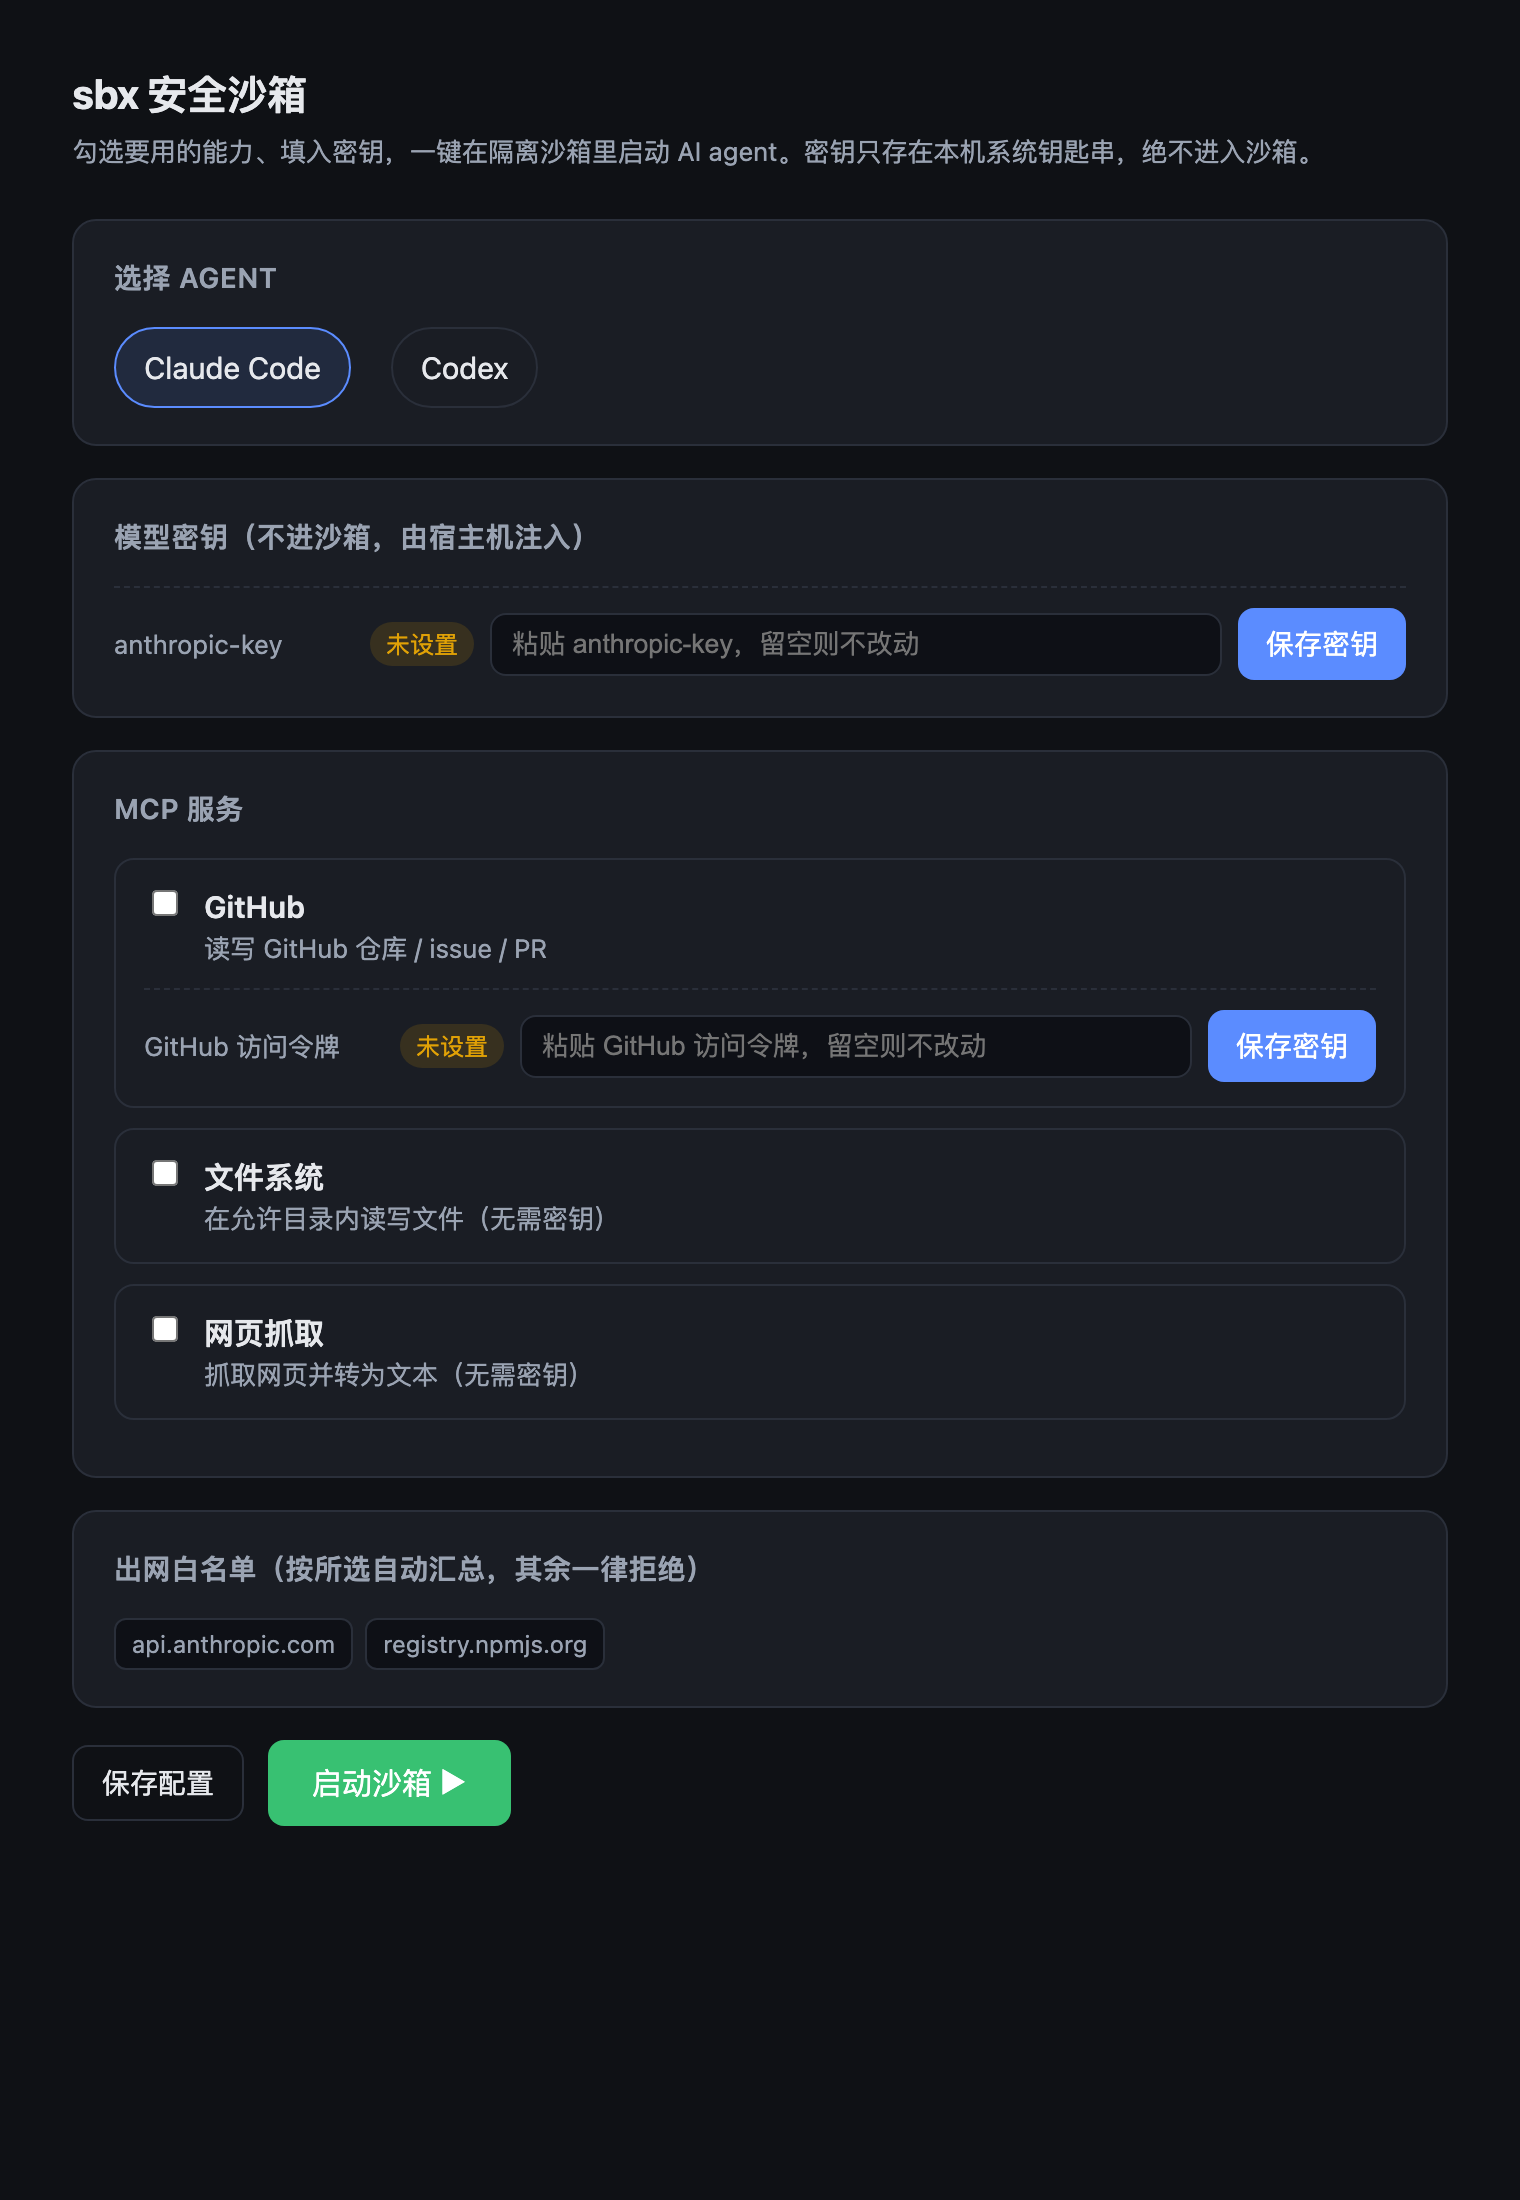
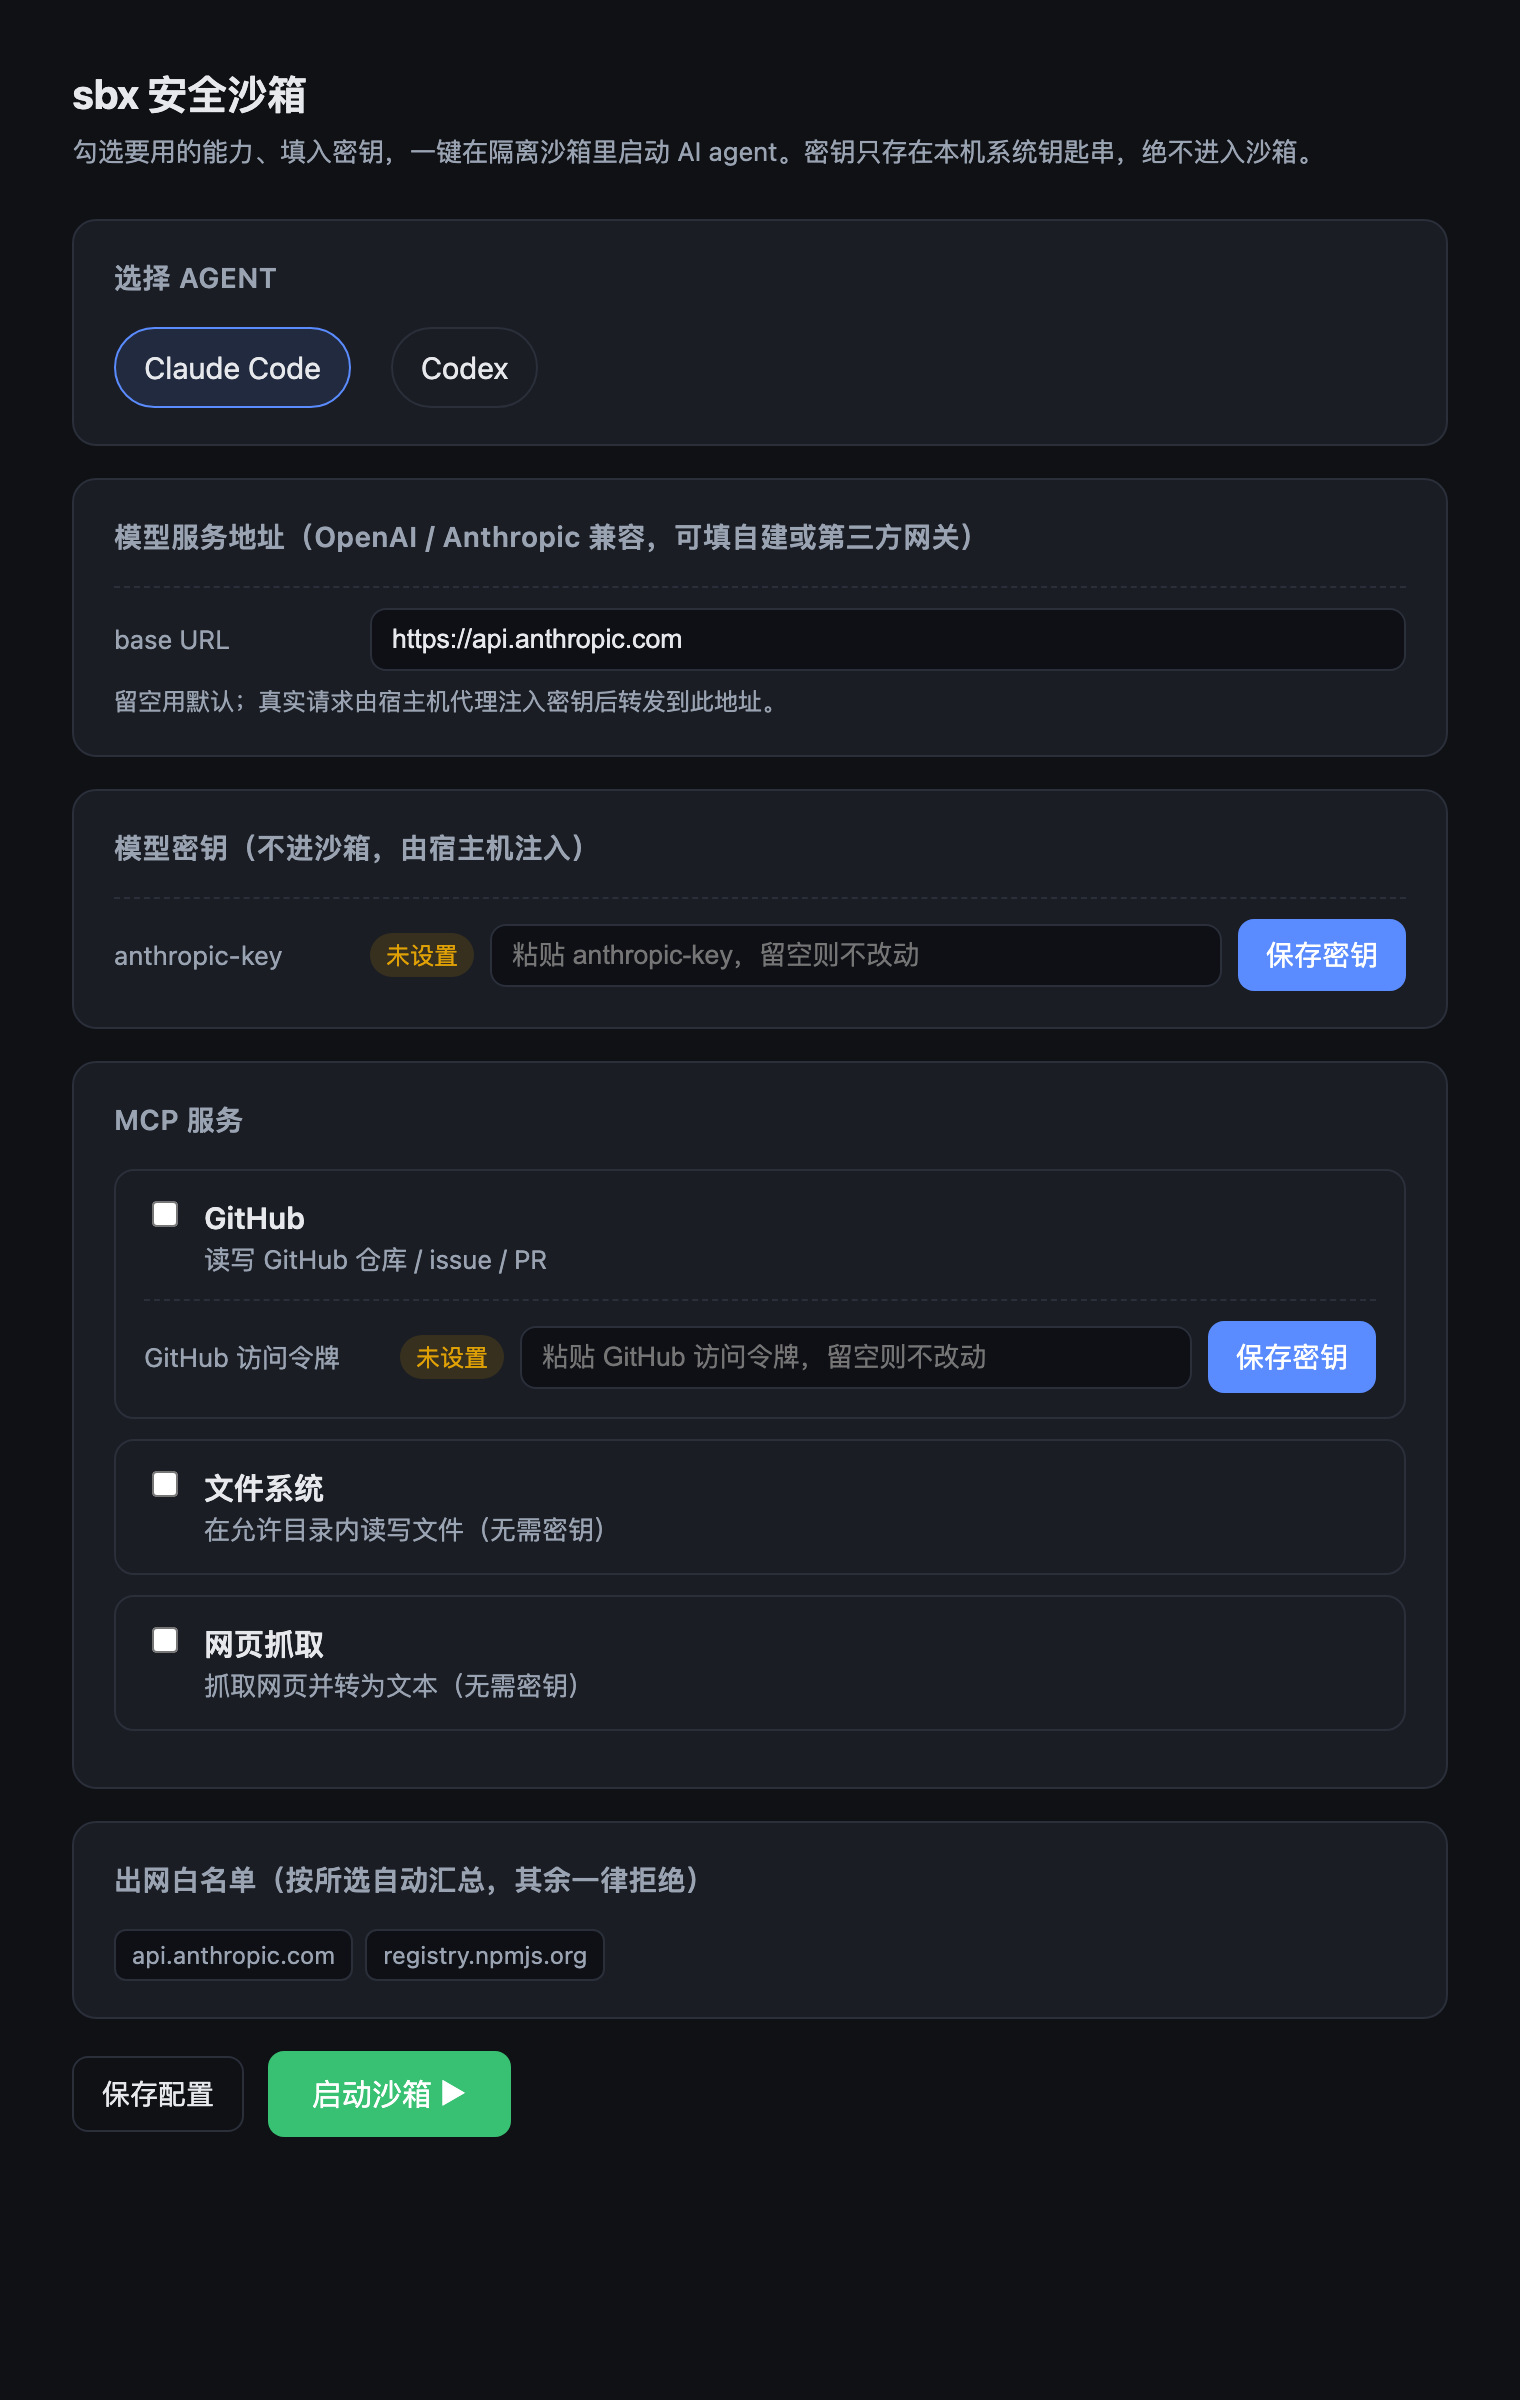
feat: UI 支持自定义模型服务地址(base URL)
- catalog: AgentPreset 以 BaseURL 取代写死的 Target/Allowlist；BuildConfig 由 baseURL 推导
  代理 Target(取源, 忽略 /v1) 与出网白名单域名，支持自建/第三方 OpenAI 兼容网关
- webui: /api/state 下发各 agent 当前 base URL；/api/config 接收 baseUrl
- 前端新增「模型服务地址」输入框，白名单随之实时更新
- 新增自定义 base URL 单测；更新界面截图

diff --git a/internal/webui/index.html b/internal/webui/index.html
@@ -53,6 +53,15 @@
   </div>
 
   <div class="card">
+    <h2>模型服务地址（OpenAI / Anthropic 兼容，可填自建或第三方网关）</h2>
+    <div class="secret">
+      <span class="lbl">base URL</span>
+      <input type="text" id="baseUrl" placeholder="如 https://llmapi.qiniu.io/v1">
+    </div>
+    <div class="desc" style="margin-top:6px;color:var(--mut);font-size:12px">留空用默认；真实请求由宿主机代理注入密钥后转发到此地址。</div>
+  </div>
+
+  <div class="card">
     <h2>模型密钥（不进沙箱，由宿主机注入）</h2>
     <div id="agentSecret"></div>
   </div>
@@ -115,10 +124,12 @@ function renderAgents(){
   const box = $('#agents'); box.innerHTML='';
   S.agents.forEach(a => {
     const node = el('span',{class:'agent'+(a.key===agent?' sel':'')}, a.display);
-    node.onclick = () => { agent=a.key; renderAgents(); renderAgentSecret(); renderAllow(); };
+    node.onclick = () => { agent=a.key; $('#baseUrl').value=S.baseURL[agent]||''; renderAgents(); renderAgentSecret(); renderAllow(); };
     box.append(node);
   });
 }
+
+function hostOf(u){ try{ return new URL(u).hostname; }catch(e){ return ''; } }
 
 function renderMCPs(){
   const box = $('#mcps'); box.innerHTML='';
@@ -137,13 +148,14 @@ function renderMCPs(){
 function renderAllow(){
   const box = $('#allow'); box.innerHTML='';
   const set = new Set(['registry.npmjs.org']);
-  const a = S.agents.find(x=>x.key===agent); (a&&a.allowlist||[]).forEach(d=>set.add(d));
+  const h = hostOf($('#baseUrl').value); if(h) set.add(h);
   S.mcpPresets.filter(p=>enabled.has(p.key)).forEach(p=>(p.allowlist||[]).forEach(d=>set.add(d)));
   [...set].sort().forEach(d=>box.append(el('span',{class:'chip'},d)));
 }
 
 async function save(){
-  const r = await fetch('/api/config',{method:'POST',headers:{'Content-Type':'application/json'},body:JSON.stringify({agent,enabled:[...enabled]})});
+  const baseUrl = $('#baseUrl').value.trim();
+  const r = await fetch('/api/config',{method:'POST',headers:{'Content-Type':'application/json'},body:JSON.stringify({agent,enabled:[...enabled],baseUrl})});
   if(r.ok){ status('已生成 sandbox.yaml（不含任何密钥）','var(--ok)'); return true; }
   status('保存配置失败','var(--danger)'); return false;
 }
@@ -161,6 +173,8 @@ async function init(){
   S = await (await fetch('/api/state')).json();
   agent = S.selected.agent || S.agents[0].key;
   (S.selected.enabled||[]).forEach(k=>enabled.add(k));
+  $('#baseUrl').value = S.baseURL[agent] || '';
+  $('#baseUrl').oninput = renderAllow;
   renderAgents(); renderAgentSecret(); renderMCPs(); renderAllow();
   $('#save').onclick = save;
   $('#launch').onclick = launch;

diff --git a/internal/catalog/build.go b/internal/catalog/build.go
@@ -1,7 +1,9 @@
 package catalog
 
 import (
+	"net/url"
 	"sort"
+	"strings"
 
 	"sbx/internal/config"
 )
@@ -9,13 +11,14 @@ import (
 // npm registry 是容器内 npx 拉取 MCP server 包所需，始终加入白名单。
 const npmRegistry = "registry.npmjs.org"
 
-// BuildConfig 由「所选 agent + 启用的 MCP 预设」生成一份 config.Config。
-//   - allowlist = 各启用 MCP 的域名 ∪ 该 agent 代理域名 ∪ npm registry（去重排序）
+// BuildConfig 由「所选 agent + 启用的 MCP 预设 + 模型服务地址」生成一份 config.Config。
+//   - allowlist = 各启用 MCP 的域名 ∪ 模型服务域名 ∪ npm registry（去重排序）
 //   - mcpServers = 各启用预设 → {Image, Command, Secrets(env→keyName)}
-//   - llmProxies = 该 agent 的模型代理（claude=anthropic / codex=openai）
+//   - llmProxies = 该 agent 的模型代理（Target 取自 baseURL 的源，为空则用预设默认）
 //
+// baseURL 允许用户指向自建/第三方 OpenAI 兼容网关（如 https://llmapi.qiniu.io/v1）。
 // 生成结果不含任何密钥值，仅密钥名。
-func BuildConfig(agentKey string, enabledMCP []string) *config.Config {
+func BuildConfig(agentKey string, enabledMCP []string, baseURL string) *config.Config {
 	cfg := &config.Config{
 		MCPServers: map[string]config.MCPServer{},
 		LLMProxies: map[string]config.LLMProxy{},
@@ -42,9 +45,16 @@ func BuildConfig(agentKey string, enabledMCP []string) *config.Config {
 	}
 
 	if a, ok := AgentByKey(agentKey); ok {
-		cfg.LLMProxies[a.ProxyName] = a.Proxy
-		for _, d := range a.Allowlist {
-			domains[d] = struct{}{}
+		base := strings.TrimSpace(baseURL)
+		if base == "" {
+			base = a.BaseURL
+		}
+		origin, host := originAndHost(base)
+		proxy := a.Proxy
+		proxy.Target = origin
+		cfg.LLMProxies[a.ProxyName] = proxy
+		if host != "" {
+			domains[host] = struct{}{}
 		}
 	}
 
@@ -53,6 +63,16 @@ func BuildConfig(agentKey string, enabledMCP []string) *config.Config {
 	}
 	sort.Strings(cfg.Allowlist)
 	return cfg
+}
+
+// originAndHost 把一个 base URL 解析为「源(scheme://host)」与「主机名」。
+// 路径部分（如 /v1）被忽略：注入代理只需源，/v1 由 agent 的请求路径携带。
+func originAndHost(raw string) (origin, host string) {
+	u, err := url.Parse(strings.TrimSpace(raw))
+	if err != nil || u.Scheme == "" || u.Host == "" {
+		return raw, ""
+	}
+	return u.Scheme + "://" + u.Host, u.Hostname()
 }
 
 // RequiredSecretNames 返回「启用的 MCP + 该 agent 代理」所需的全部密钥名（去重排序）。

diff --git a/internal/webui/webui.go b/internal/webui/webui.go
@@ -59,6 +59,7 @@ type stateResp struct {
 	Selected     selected              `json:"selected"`
 	Secrets      map[string]bool       `json:"secrets"`      // 密钥名 -> 是否已设置
 	AgentSecrets map[string][]string   `json:"agentSecrets"` // agentKey -> 其模型代理所需密钥名
+	BaseURL      map[string]string     `json:"baseURL"`      // agentKey -> 当前模型服务地址
 }
 
 type selected struct {
@@ -72,13 +73,23 @@ func (s *Server) handleState(w http.ResponseWriter, r *http.Request) {
 		MCPPresets:   catalog.MCPPresets(),
 		Secrets:      map[string]bool{},
 		AgentSecrets: map[string][]string{},
+		BaseURL:      map[string]string{},
 	}
-	// 从现有 sandbox.yaml 推断当前已启用的 MCP（存在即选中）。
+	// 各 agent 模型服务地址：默认取预设。
+	for _, a := range catalog.AgentPresets() {
+		resp.BaseURL[a.Key] = a.BaseURL
+	}
+	// 从现有 sandbox.yaml 推断当前已启用的 MCP（存在即选中）与已配置的模型服务地址。
 	resp.Selected.Agent = catalog.AgentPresets()[0].Key
 	if cfg, err := config.Load(s.CfgPath); err == nil {
 		for _, p := range catalog.MCPPresets() {
 			if _, ok := cfg.MCPServers[p.Key]; ok {
 				resp.Selected.Enabled = append(resp.Selected.Enabled, p.Key)
+			}
+		}
+		for _, a := range catalog.AgentPresets() {
+			if px, ok := cfg.LLMProxies[a.ProxyName]; ok && px.Target != "" {
+				resp.BaseURL[a.Key] = px.Target
 			}
 		}
 	}
@@ -119,12 +130,13 @@ func (s *Server) handleConfig(w http.ResponseWriter, r *http.Request) {
 	var body struct {
 		Agent   string   `json:"agent"`
 		Enabled []string `json:"enabled"`
+		BaseURL string   `json:"baseUrl"`
 	}
 	if err := json.NewDecoder(r.Body).Decode(&body); err != nil {
 		http.Error(w, "参数错误", http.StatusBadRequest)
 		return
 	}
-	cfg := catalog.BuildConfig(body.Agent, body.Enabled)
+	cfg := catalog.BuildConfig(body.Agent, body.Enabled, body.BaseURL)
 	if err := config.Save(s.CfgPath, cfg); err != nil {
 		http.Error(w, err.Error(), http.StatusInternalServerError)
 		return

diff --git a/internal/catalog/build_test.go b/internal/catalog/build_test.go
@@ -6,7 +6,7 @@ import (
 )
 
 func TestBuildConfigClaudeGithubFilesystem(t *testing.T) {
-	cfg := BuildConfig("claude", []string{"github", "filesystem"})
+	cfg := BuildConfig("claude", []string{"github", "filesystem"}, "")
 
 	// MCP：两个 server，github 带密钥名、filesystem 无密钥。
 	if len(cfg.MCPServers) != 2 {
@@ -32,13 +32,33 @@ func TestBuildConfigClaudeGithubFilesystem(t *testing.T) {
 }
 
 func TestBuildConfigCodexProxy(t *testing.T) {
-	cfg := BuildConfig("codex", nil)
+	cfg := BuildConfig("codex", nil, "")
 	p, ok := cfg.LLMProxies["openai"]
 	if !ok {
 		t.Fatal("codex 应生成 openai 代理")
 	}
 	if p.Headers["Authorization"] != "Bearer ${openai-key}" {
 		t.Errorf("openai 代理 header 错误: %+v", p.Headers)
+	}
+	// 默认 base URL（https://api.openai.com/v1）→ 代理 target 取其源。
+	if p.Target != "https://api.openai.com" {
+		t.Errorf("默认 target = %q，期望 https://api.openai.com", p.Target)
+	}
+}
+
+func TestBuildConfigCustomBaseURL(t *testing.T) {
+	cfg := BuildConfig("codex", nil, "https://llmapi.qiniu.io/v1")
+	if got := cfg.LLMProxies["openai"].Target; got != "https://llmapi.qiniu.io" {
+		t.Errorf("自定义 target = %q，期望 https://llmapi.qiniu.io（取源，忽略 /v1）", got)
+	}
+	found := false
+	for _, d := range cfg.Allowlist {
+		if d == "llmapi.qiniu.io" {
+			found = true
+		}
+	}
+	if !found {
+		t.Errorf("白名单应含自定义域名 llmapi.qiniu.io，实际: %v", cfg.Allowlist)
 	}
 }
 

diff --git a/internal/catalog/catalog.go b/internal/catalog/catalog.go
@@ -28,8 +28,10 @@ type AgentPreset struct {
 	Key       string          `json:"key"`
 	Display   string          `json:"display"`
 	ProxyName string          `json:"-"`
-	Proxy     config.LLMProxy `json:"-"`
-	Allowlist []string        `json:"allowlist"`
+	Proxy     config.LLMProxy `json:"-"` // 不含 Target，Target 由 BaseURL 推导
+	// BaseURL 是该 agent 默认的模型服务地址（OpenAI/Anthropic 兼容）。
+	// 用户可在界面改成自建/第三方网关（如 https://llmapi.qiniu.io/v1）。
+	BaseURL string `json:"baseURL"`
 }
 
 // MCPPresets 返回内置的 MCP server 预设清单。
@@ -67,20 +69,18 @@ func AgentPresets() []AgentPreset {
 		{
 			Key: "claude", Display: "Claude Code", ProxyName: "anthropic",
 			Proxy: config.LLMProxy{
-				Target:    "https://api.anthropic.com",
 				ClientEnv: map[string]string{"ANTHROPIC_BASE_URL": "{proxy}", "ANTHROPIC_API_KEY": "sandbox-placeholder"},
 				Headers:   map[string]string{"x-api-key": "anthropic-key"},
 			},
-			Allowlist: []string{"api.anthropic.com"},
+			BaseURL: "https://api.anthropic.com",
 		},
 		{
 			Key: "codex", Display: "Codex", ProxyName: "openai",
 			Proxy: config.LLMProxy{
-				Target:    "https://api.openai.com",
 				ClientEnv: map[string]string{"OPENAI_API_KEY": "sandbox-placeholder"},
 				Headers:   map[string]string{"Authorization": "Bearer ${openai-key}"},
 			},
-			Allowlist: []string{"api.openai.com"},
+			BaseURL: "https://api.openai.com/v1",
 		},
 	}
 }
